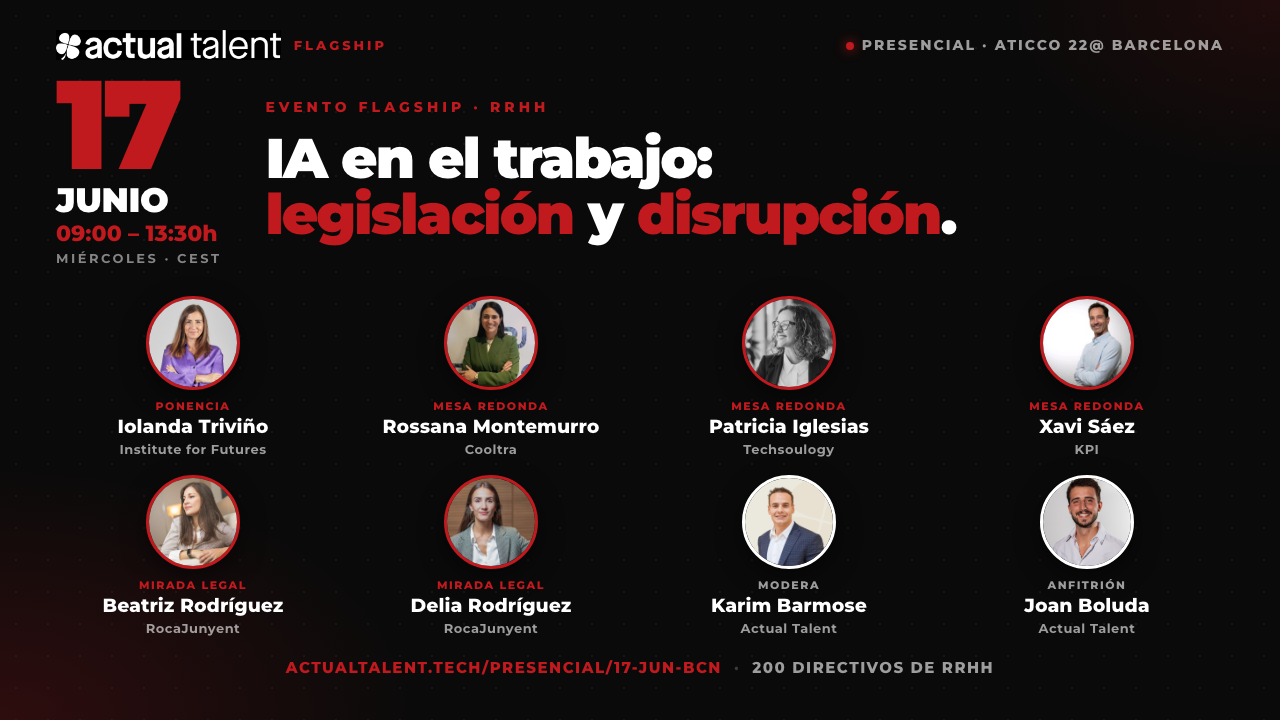
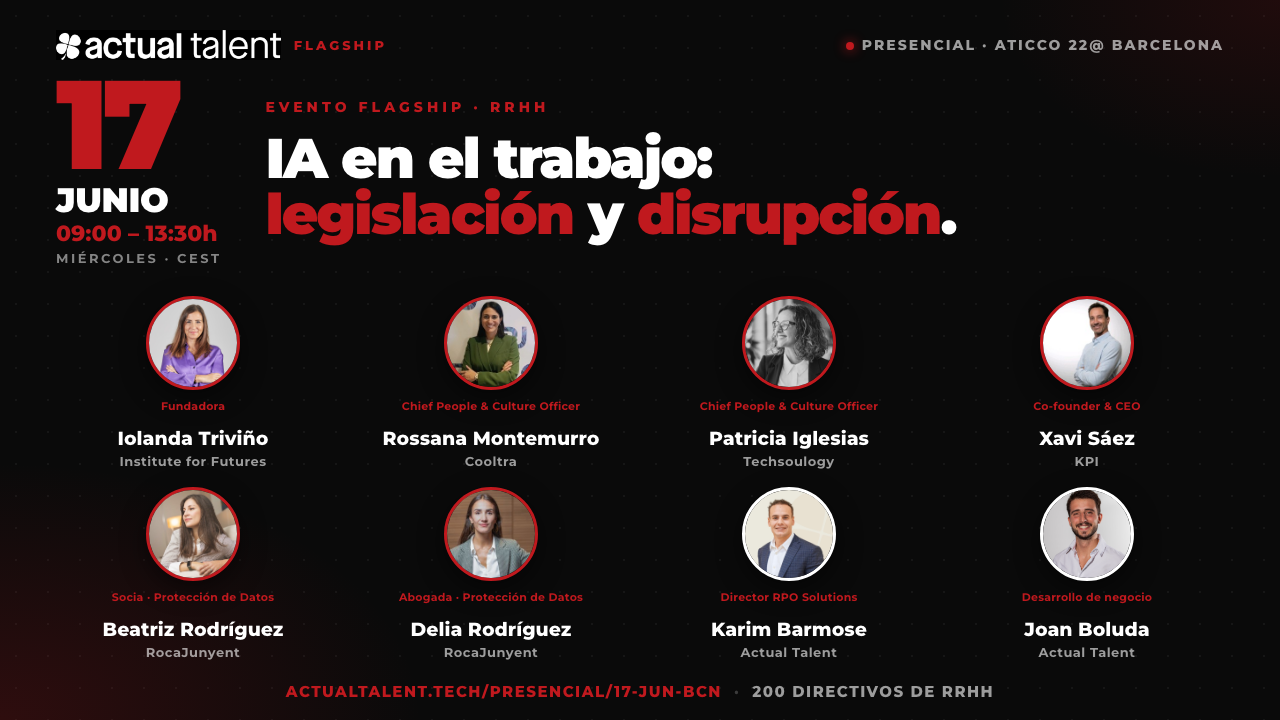
style(17-jun-bcn): LinkedIn flyer shows each person's job title instead of event role
Replace the per-face role tags (Ponencia/Mesa redonda/Mirada legal/Modera/Anfitrión)
with each person's real job title (Fundadora, Chief People & Culture Officer, Co-founder
& CEO, Socia, Abogada, Director RPO Solutions, Desarrollo de negocio); company stays
underneath. Role styled as a title (not all-caps) so it fits one line.

diff --git a/presencial/17-jun-bcn/flyer-linkedin/index.html b/presencial/17-jun-bcn/flyer-linkedin/index.html
@@ -42,8 +42,8 @@ body{font-family:'Montserrat',sans-serif;background:#000;-webkit-font-smoothing:
 .sp-photo{width:94px;height:94px;border-radius:50%;overflow:hidden;border:3px solid var(--red);box-shadow:0 8px 24px rgba(0,0,0,.5);margin-bottom:9px}
 .sp-photo.host{border-color:#fff}
 .sp-photo img{width:100%;height:100%;object-fit:cover;display:block}
-.sp-role{font-size:11px;font-weight:800;letter-spacing:1.5px;text-transform:uppercase;color:var(--red);margin-bottom:4px}
-.sp-role.host{color:rgba(255,255,255,.6)}
+.sp-role{font-size:11px;font-weight:700;letter-spacing:.2px;color:var(--red);margin-bottom:4px;min-height:26px}
+.sp-role.host{color:var(--red)}
 .sp-name{font-size:19px;font-weight:800;line-height:1.1;margin-bottom:3px}
 .sp-org{font-size:13px;font-weight:700;letter-spacing:.5px;color:rgba(255,255,255,.6)}
 .footer{margin-top:22px;text-align:center}
@@ -75,14 +75,14 @@ body{font-family:'Montserrat',sans-serif;background:#000;-webkit-font-smoothing:
     </div>
 
     <div class="speakers">
-      <div class="speaker"><div class="sp-photo"><img src="../../../webinar/assets/speakers/iolanda-trivino.jpg" alt="Iolanda Triviño"></div><div class="sp-role">Ponencia</div><div class="sp-name">Iolanda Triviño</div><div class="sp-org">Institute for Futures</div></div>
-      <div class="speaker"><div class="sp-photo"><img src="../../../webinar/assets/speakers/rossana-montemurro.jpg" alt="Rossana Montemurro"></div><div class="sp-role">Mesa redonda</div><div class="sp-name">Rossana Montemurro</div><div class="sp-org">Cooltra</div></div>
-      <div class="speaker"><div class="sp-photo"><img src="../../../webinar/assets/speakers/patricia-iglesias.jpg" alt="Patricia Iglesias"></div><div class="sp-role">Mesa redonda</div><div class="sp-name">Patricia Iglesias</div><div class="sp-org">Techsoulogy</div></div>
-      <div class="speaker"><div class="sp-photo"><img src="../../../webinar/assets/speakers/xavi-saez.jpg" alt="Xavi Sáez"></div><div class="sp-role">Mesa redonda</div><div class="sp-name">Xavi Sáez</div><div class="sp-org">KPI</div></div>
-      <div class="speaker"><div class="sp-photo"><img src="../../../webinar/assets/speakers/beatriz-rodriguez.jpg" alt="Beatriz Rodríguez"></div><div class="sp-role">Mirada legal</div><div class="sp-name">Beatriz Rodríguez</div><div class="sp-org">RocaJunyent</div></div>
-      <div class="speaker"><div class="sp-photo"><img src="../../../webinar/assets/speakers/delia-rodriguez.jpg" alt="Delia Rodríguez"></div><div class="sp-role">Mirada legal</div><div class="sp-name">Delia Rodríguez</div><div class="sp-org">RocaJunyent</div></div>
-      <div class="speaker"><div class="sp-photo host"><img src="../../../webinar/assets/speakers/karim-barmose.jpg" alt="Karim Barmose"></div><div class="sp-role host">Modera</div><div class="sp-name">Karim Barmose</div><div class="sp-org">Actual Talent</div></div>
-      <div class="speaker"><div class="sp-photo host"><img src="../../../webinar/assets/speakers/joan-boluda.jpg" alt="Joan Boluda"></div><div class="sp-role host">Anfitrión</div><div class="sp-name">Joan Boluda</div><div class="sp-org">Actual Talent</div></div>
+      <div class="speaker"><div class="sp-photo"><img src="../../../webinar/assets/speakers/iolanda-trivino.jpg" alt="Iolanda Triviño"></div><div class="sp-role">Fundadora</div><div class="sp-name">Iolanda Triviño</div><div class="sp-org">Institute for Futures</div></div>
+      <div class="speaker"><div class="sp-photo"><img src="../../../webinar/assets/speakers/rossana-montemurro.jpg" alt="Rossana Montemurro"></div><div class="sp-role">Chief People &amp; Culture Officer</div><div class="sp-name">Rossana Montemurro</div><div class="sp-org">Cooltra</div></div>
+      <div class="speaker"><div class="sp-photo"><img src="../../../webinar/assets/speakers/patricia-iglesias.jpg" alt="Patricia Iglesias"></div><div class="sp-role">Chief People &amp; Culture Officer</div><div class="sp-name">Patricia Iglesias</div><div class="sp-org">Techsoulogy</div></div>
+      <div class="speaker"><div class="sp-photo"><img src="../../../webinar/assets/speakers/xavi-saez.jpg" alt="Xavi Sáez"></div><div class="sp-role">Co-founder &amp; CEO</div><div class="sp-name">Xavi Sáez</div><div class="sp-org">KPI</div></div>
+      <div class="speaker"><div class="sp-photo"><img src="../../../webinar/assets/speakers/beatriz-rodriguez.jpg" alt="Beatriz Rodríguez"></div><div class="sp-role">Socia · Protección de Datos</div><div class="sp-name">Beatriz Rodríguez</div><div class="sp-org">RocaJunyent</div></div>
+      <div class="speaker"><div class="sp-photo"><img src="../../../webinar/assets/speakers/delia-rodriguez.jpg" alt="Delia Rodríguez"></div><div class="sp-role">Abogada · Protección de Datos</div><div class="sp-name">Delia Rodríguez</div><div class="sp-org">RocaJunyent</div></div>
+      <div class="speaker"><div class="sp-photo host"><img src="../../../webinar/assets/speakers/karim-barmose.jpg" alt="Karim Barmose"></div><div class="sp-role host">Director RPO Solutions</div><div class="sp-name">Karim Barmose</div><div class="sp-org">Actual Talent</div></div>
+      <div class="speaker"><div class="sp-photo host"><img src="../../../webinar/assets/speakers/joan-boluda.jpg" alt="Joan Boluda"></div><div class="sp-role host">Desarrollo de negocio</div><div class="sp-name">Joan Boluda</div><div class="sp-org">Actual Talent</div></div>
     </div>
 
     <div class="footer">
